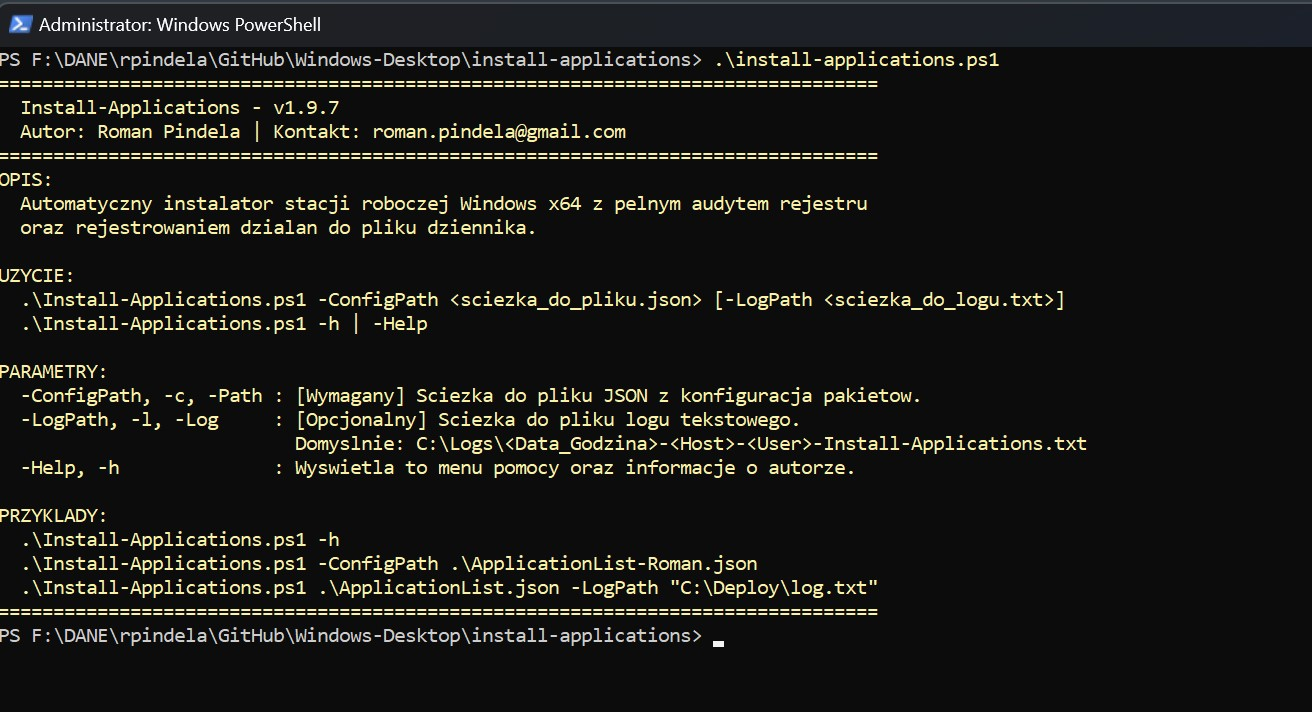
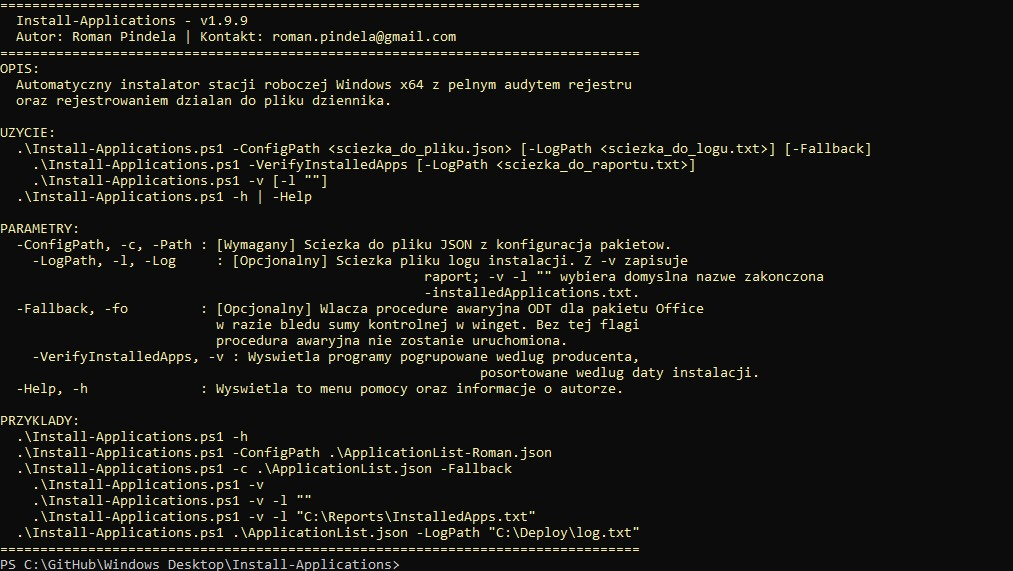
feat: add installed-app verification report
- Add the -v option to list installed applications by publisher
- Include installation details and optional report export
- Add a screenshot of the verification report
- Update usage documentation

Changed region(s): [[0.0, 0.0, 1.0, 0.6848], [0.0, 0.7145, 0.6732, 1.0]]

diff --git a/Install-Applications/README.md b/Install-Applications/README.md
@@ -28,6 +28,7 @@ Dokumentacja techniczna skryptu automatyzującego audyt, pobieranie, instalację
   * `HKCU` profil zalogowanego użytkownika (`SOFTWARE\Microsoft\Windows\CurrentVersion\Uninstall`)
 * **Inteligentne dopasowywanie (Smart Matching):** Skrypt oczyszcza nazwy pakietów z nawiasów i porównuje trzon programu, bezbłędnie kojarząc pakiety z wpisami rejestru Windows.
 * **Precyzyjne metadane aplikacji:** Dla każdego programu skrypt rejestruje pełną nazwę (`DisplayName`), wersję (`DisplayVersion`), datę instalacji (`InstallDate`) oraz ścieżkę instalacji (`InstallLocation` / `DisplayIcon`).
+* **Raport zainstalowanych programów:** Parametr `-VerifyInstalledApps` (skrót `-v`) wyświetla programy pogrupowane według producenta i posortowane według daty instalacji. Raport zawiera wersję, datę instalacji, rozmiar, architekturę, zakres instalacji i lokalizację. Długie nazwy, wersje i ścieżki są zawijane do kolejnych linii.
 * **Pełna idempotencja (Skip Already Installed):** Programy wykryte w systemie są natychmiast pomijane wraz z prezentacją ich metadanych[cite: 1, 3].
 * **Automatyczna instalacja User-Context (Non-Admin Fallback):** Pakiety odrzucające uprawnienia administratora (kod `0x8A150056` / `-1978335146`, np. Spotify) są delegowane do uruchomienia w kontekście zalogowanego użytkownika (`--scope user`) przez zadanie `ScheduledTask`[cite: 1, 3].
 * **Opcjonalna procedura awaryjna Office 365 (ODT Fallback):** Uruchamiana **wyłącznie po podaniu przełącznika `-Fallback`** w sytuacji wystąpienia błędu sumy kontrolnej hash (`-1978335215`) w winget. Domyślnie procedura ODT jest wyłączona, co zapobiega niekontrolowanemu pobieraniu instalatora awaryjnego.
@@ -48,7 +49,7 @@ install-applications/
 ---
 ## Wymagania systemowe
 * **System operacyjny:** Windows 10 / Windows 11 (architektura 64-bit).
-* **Uprawnienia:** Konsola PowerShell uruchomiona z uprawnieniami Administratora (niezbędna do instalacji globalnych i rejestracji zadań fallback).
+* **Uprawnienia:** Konsola PowerShell uruchomiona z uprawnieniami Administratora (niezbędna do instalacji globalnych i rejestracji zadań fallback). Sam raport `-VerifyInstalledApps` można uruchomić bez podwyższonych uprawnień.
 * **Połączenie sieciowe:** Dostęp do sieci Internet (oficjalne serwery CDN producentów oraz repozytorium WinGet).
 ---
 ## Instrukcja uruchomienia
@@ -66,6 +67,16 @@ Set-ExecutionPolicy -ExecutionPolicy RemoteSigned -Scope CurrentUser
 .\Install-Applications.ps1 -ConfigPath .\ApplicationList-Roman.json
 ```
 *(Dopuszczalna jest również składnia skrócona: `.\Install-Applications.ps1 .\ApplicationList-Roman.json`)*
+### 4. Raport zainstalowanych programów
+```shell
+.\Install-Applications.ps1 -VerifyInstalledApps
+# Skrót:
+.\Install-Applications.ps1 -v
+# Zapis do domyślnego pliku w C:\Logs (sufiks -installedApplications):
+.\Install-Applications.ps1 -v -l ""
+# Zapis pod wskazaną ścieżką:
+.\Install-Applications.ps1 -v -l "C:\Reports\InstalledApps.txt"
+```
 ---
 ## Struktura i przykład pliku konfiguracyjnego JSON
 Plik JSON zawiera tablicę obiektów, gdzie każdy obiekt posiada pola `Name` (czytelna nazwa) oraz `Id` (identyfikator pakietu w winget):
